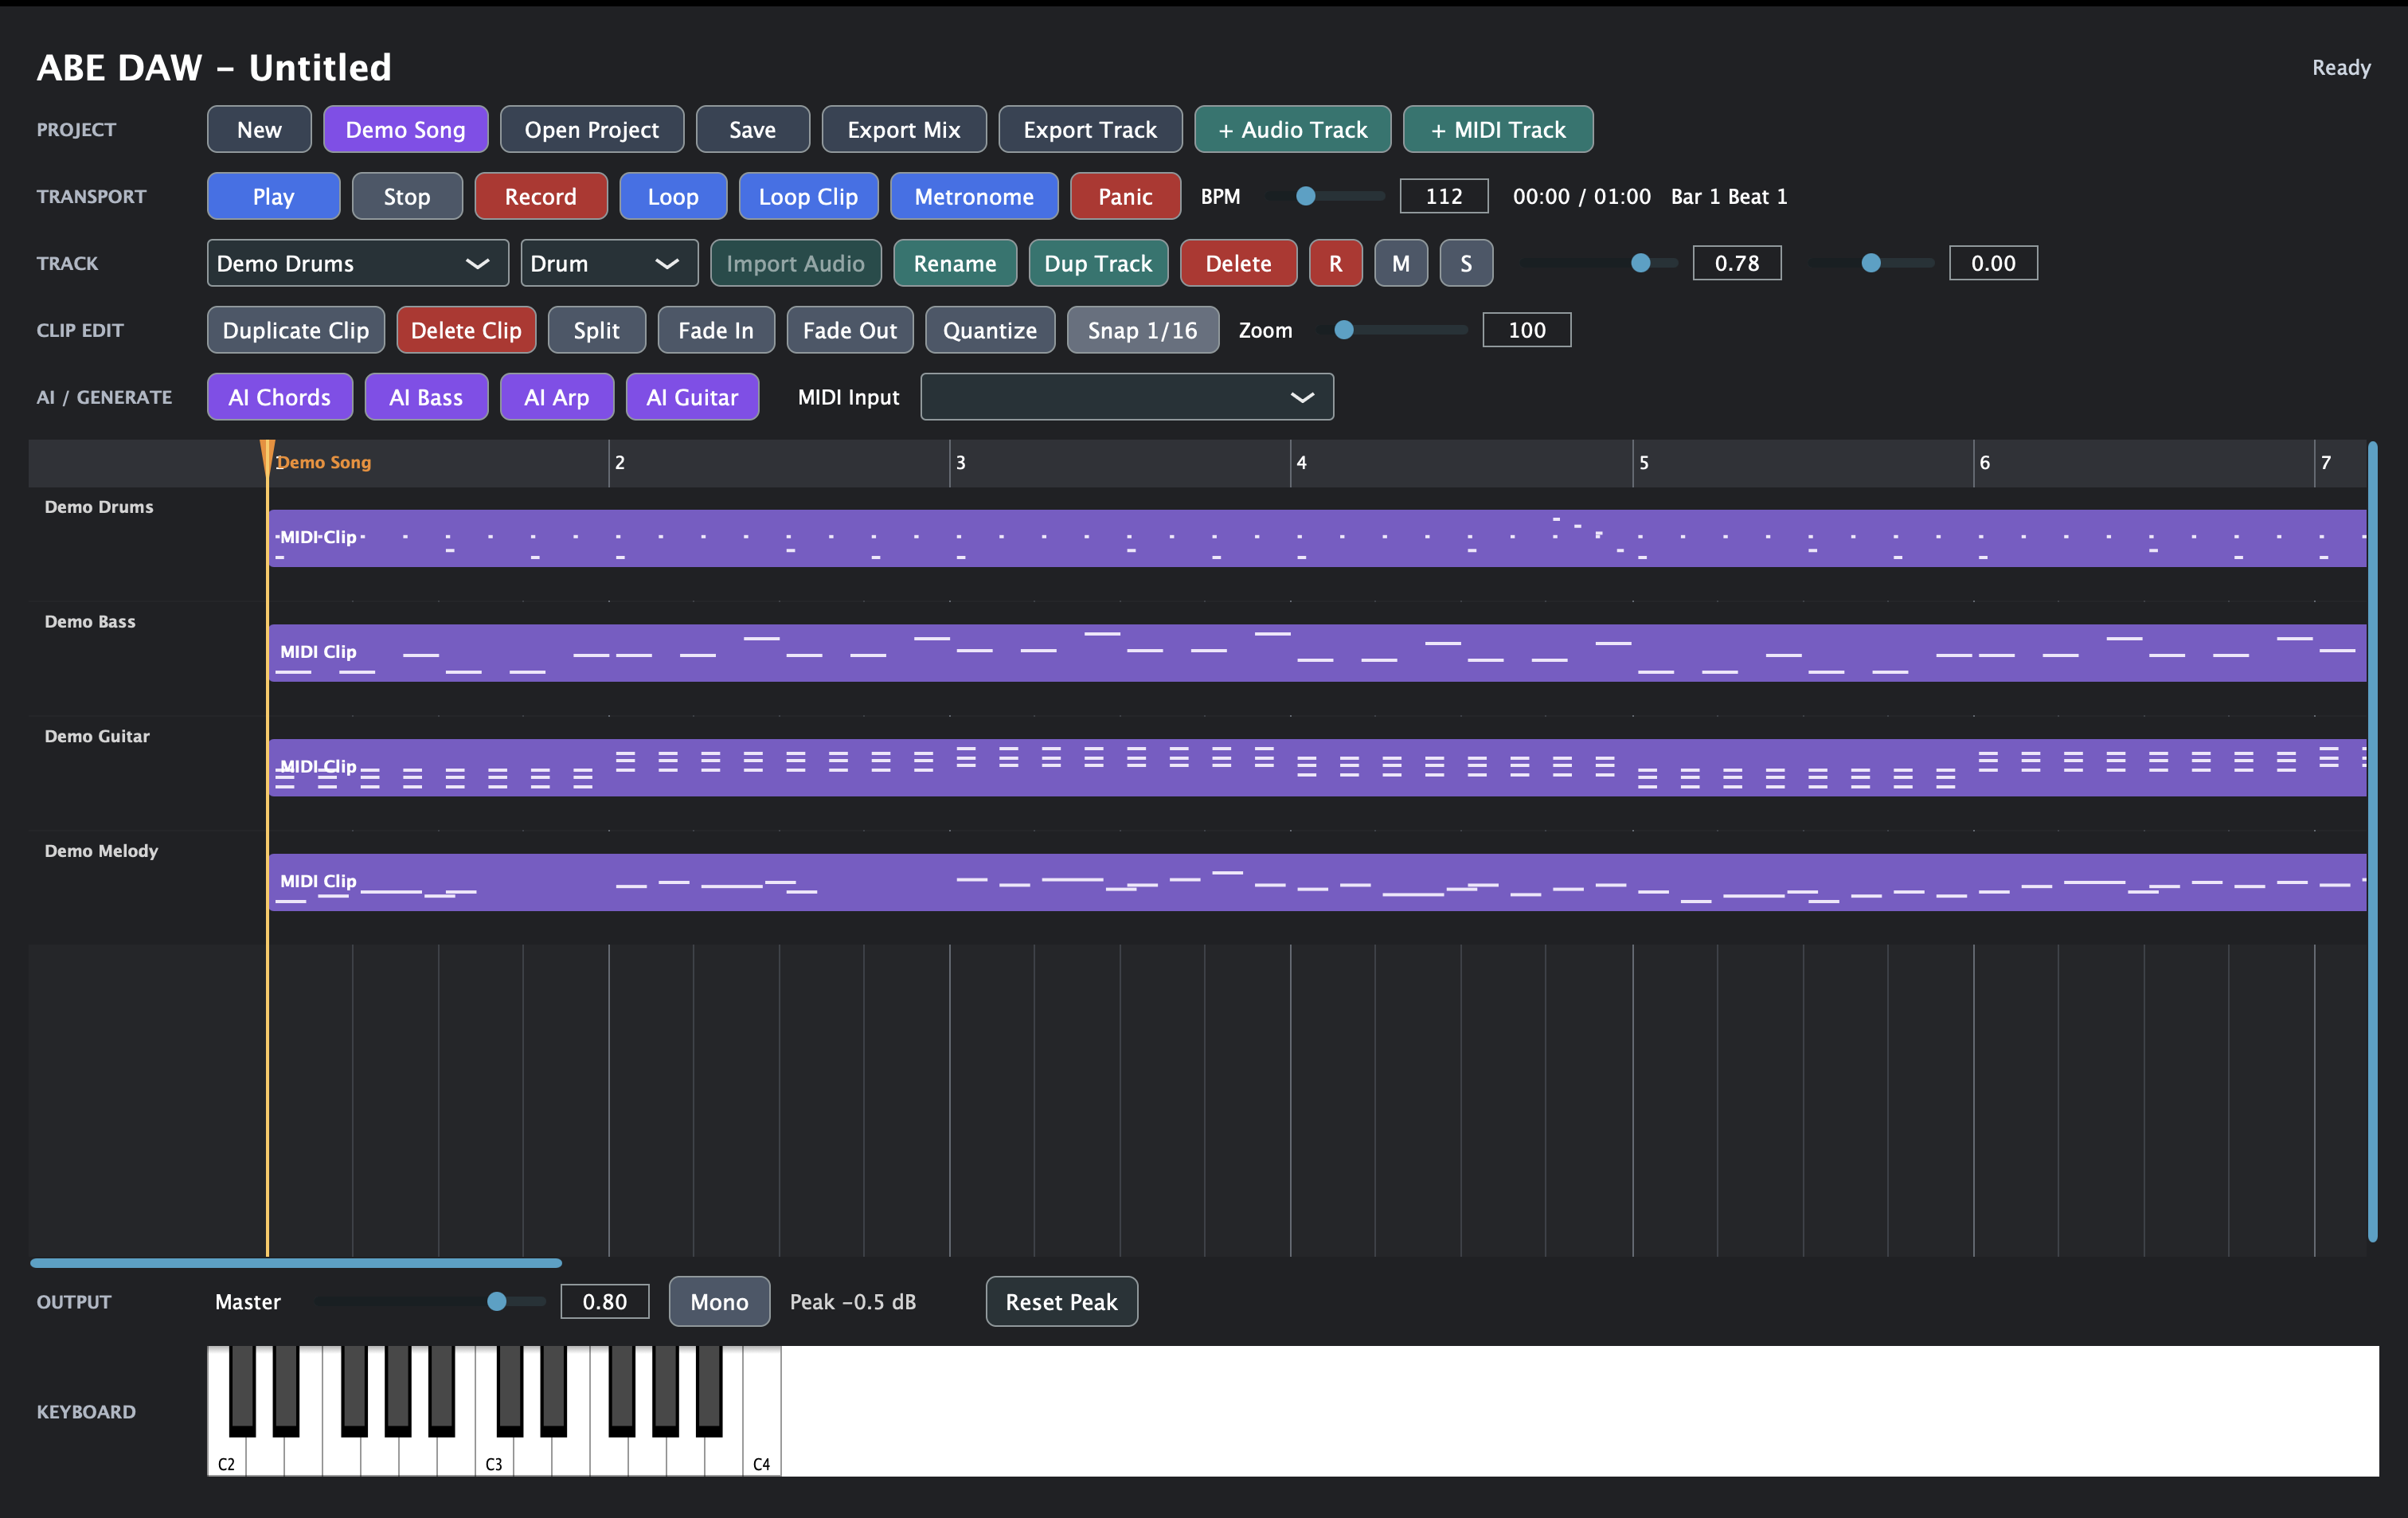
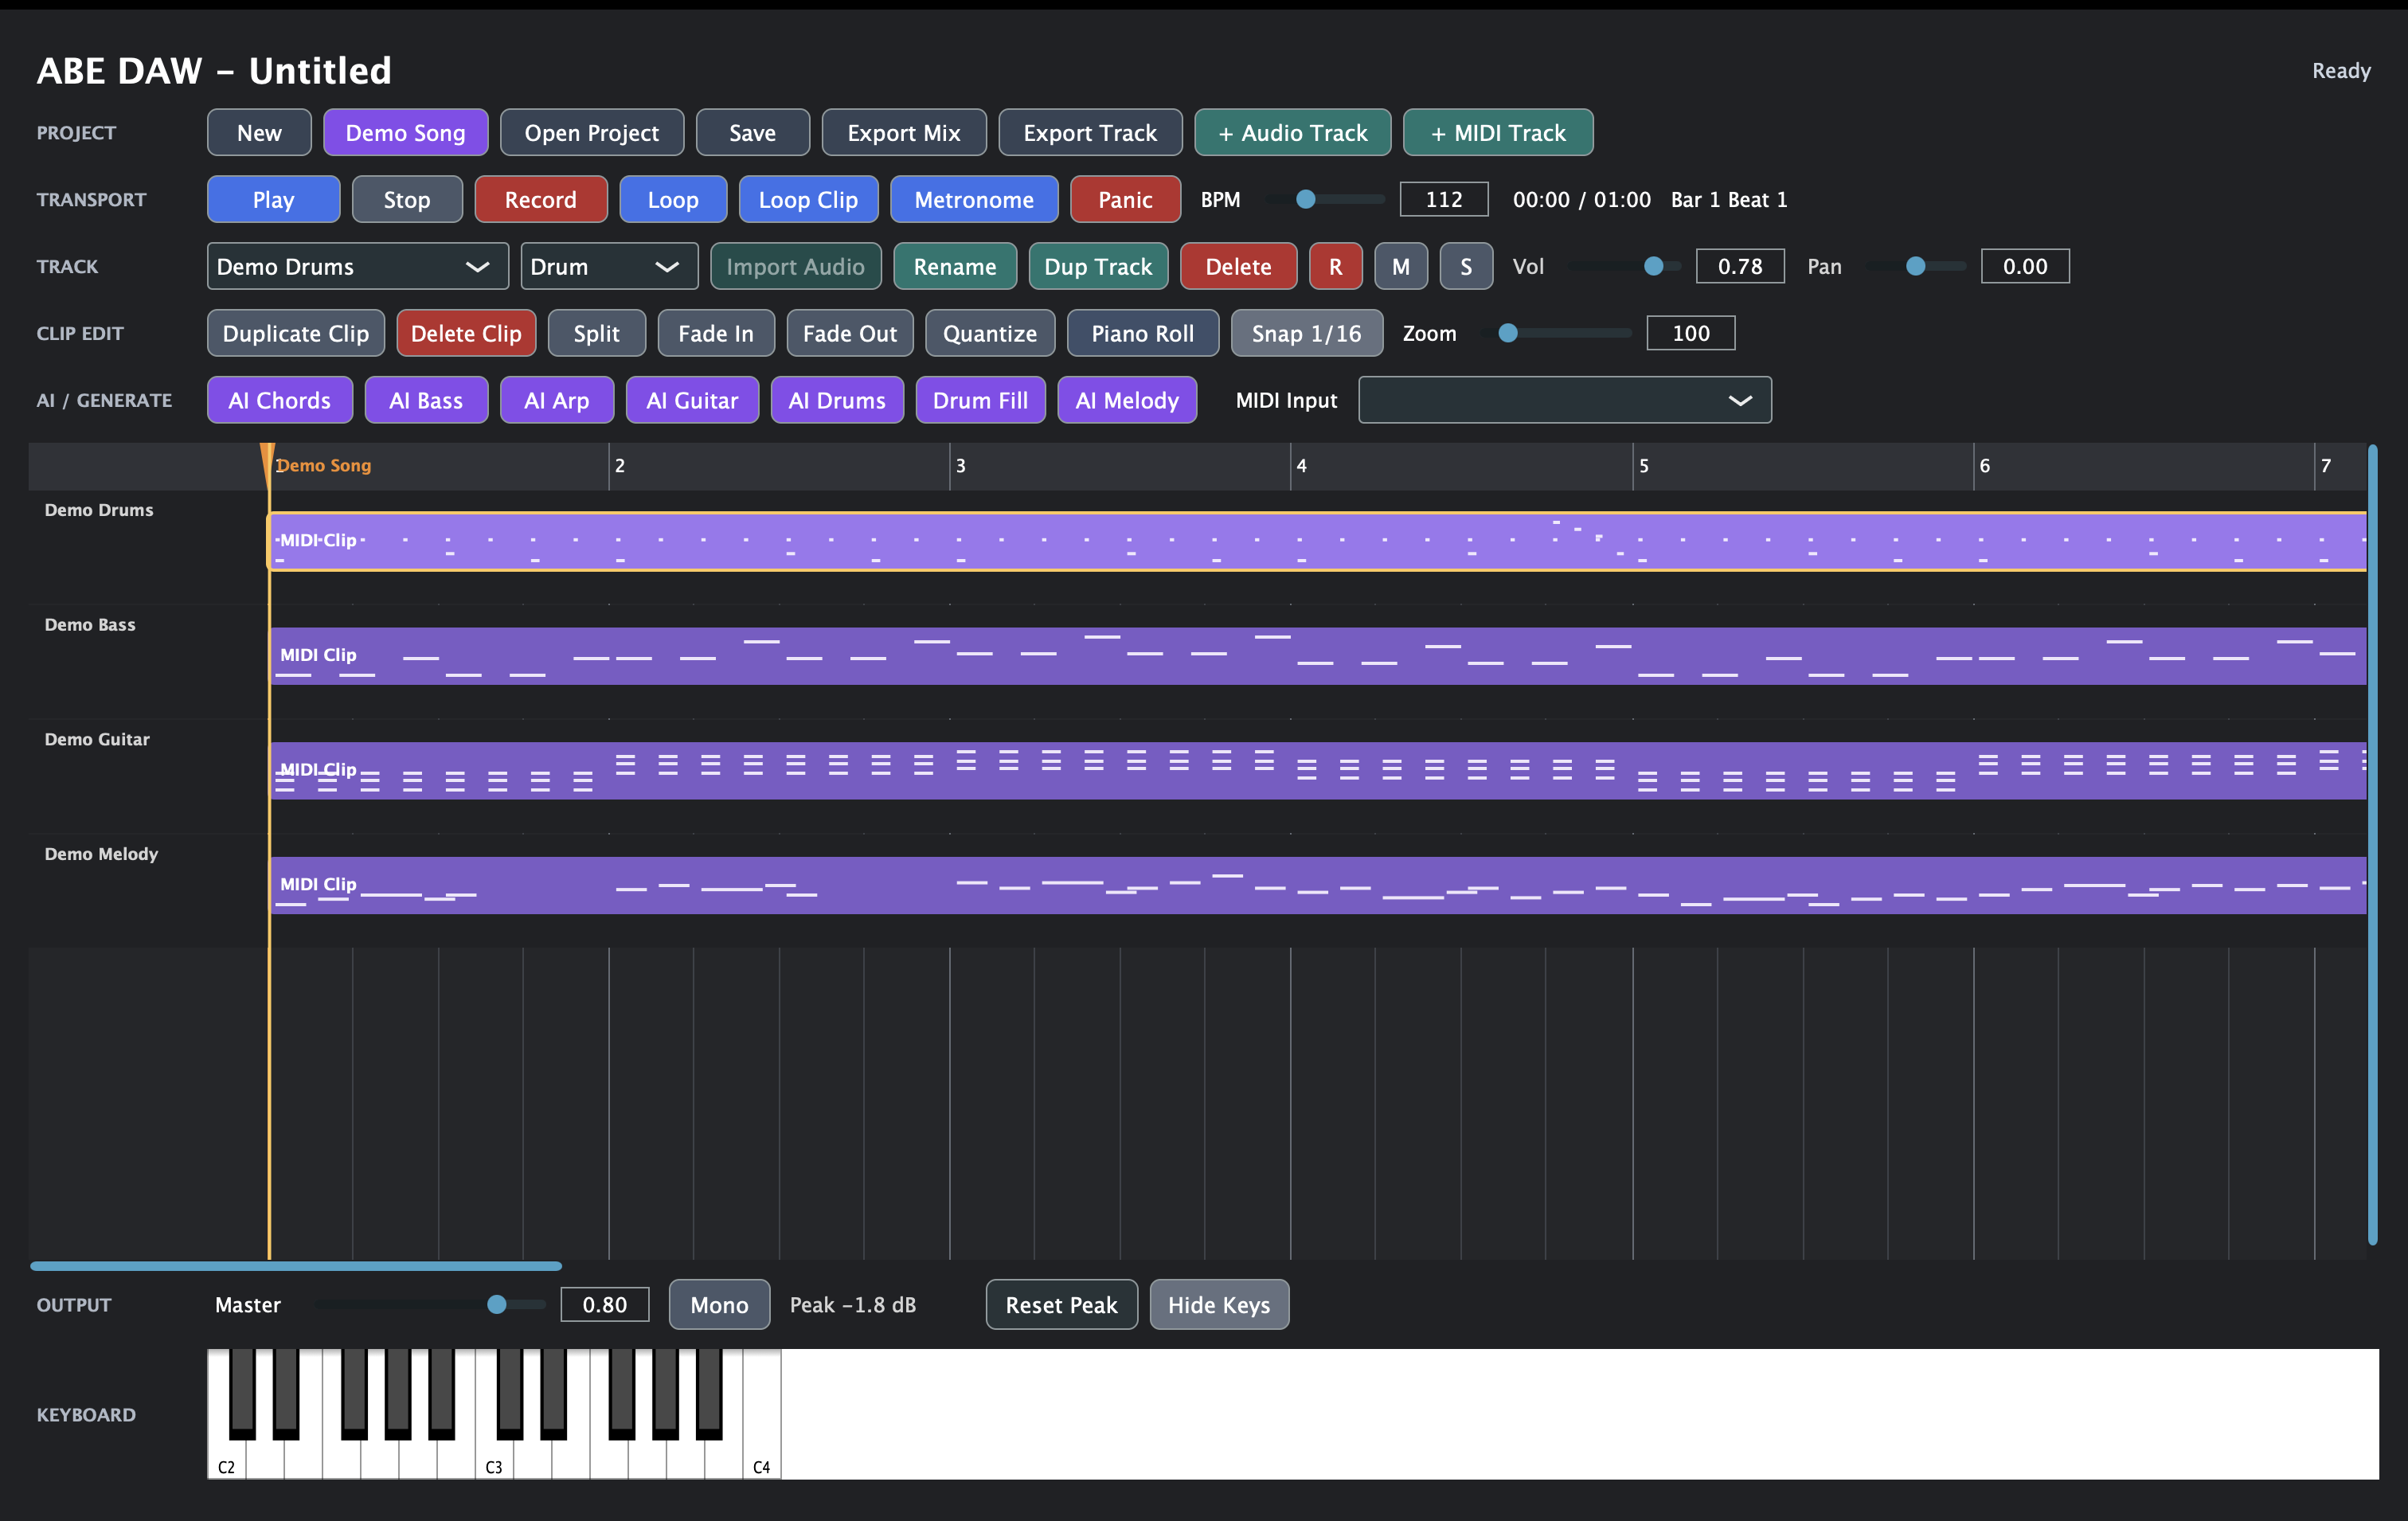
feat:構成整理

diff --git a/Source/MainComponent.cpp b/Source/MainComponent.cpp
@@ -90,6 +90,16 @@ MainComponent::MainComponent()
     zoomLabel.setColour(juce::Label::textColourId, juce::Colours::white);
     addAndMakeVisible(zoomLabel);
 
+    trackVolumeLabel.setText("Vol", juce::dontSendNotification);
+    trackVolumeLabel.setColour(juce::Label::textColourId, juce::Colours::lightgrey);
+    trackVolumeLabel.setJustificationType(juce::Justification::centredRight);
+    addAndMakeVisible(trackVolumeLabel);
+
+    trackPanLabel.setText("Pan", juce::dontSendNotification);
+    trackPanLabel.setColour(juce::Label::textColourId, juce::Colours::lightgrey);
+    trackPanLabel.setJustificationType(juce::Justification::centredRight);
+    addAndMakeVisible(trackPanLabel);
+
     newProjectButton.setButtonText("New");
     newProjectButton.onClick = [this] { newProject(); };
     addAndMakeVisible(newProjectButton);
@@ -208,6 +218,10 @@ MainComponent::MainComponent()
     quantizeMidiButton.onClick = [this] { quantizeSelectedMidiClip(); };
     addAndMakeVisible(quantizeMidiButton);
 
+    openPianoRollButton.setButtonText("Piano Roll");
+    openPianoRollButton.onClick = [this] { openSelectedMidiClipPianoRoll(); };
+    addAndMakeVisible(openPianoRollButton);
+
     snapButton.setClickingTogglesState(true);
     snapButton.setToggleState(true, juce::dontSendNotification);
     snapButton.onClick = [this]
@@ -233,6 +247,18 @@ MainComponent::MainComponent()
     aiGuitarButton.setButtonText("AI Guitar");
     aiGuitarButton.onClick = [this] { generateAiGuitarForSelectedTrack(); };
     addAndMakeVisible(aiGuitarButton);
+
+    aiDrumsButton.setButtonText("AI Drums");
+    aiDrumsButton.onClick = [this] { generateAiDrumsForSelectedTrack(); };
+    addAndMakeVisible(aiDrumsButton);
+
+    aiDrumFillButton.setButtonText("Drum Fill");
+    aiDrumFillButton.onClick = [this] { generateAiDrumFillForSelectedTrack(); };
+    addAndMakeVisible(aiDrumFillButton);
+
+    aiMelodyButton.setButtonText("AI Melody");
+    aiMelodyButton.onClick = [this] { generateAiMelodyForSelectedTrack(); };
+    addAndMakeVisible(aiMelodyButton);
 
     playPauseButton.setButtonText("Play");
     playPauseButton.onClick = [this]
@@ -372,6 +398,20 @@ MainComponent::MainComponent()
     };
     addAndMakeVisible(monoButton);
 
+    keyboardToggleButton.setButtonText("Hide Keys");
+    keyboardToggleButton.setClickingTogglesState(true);
+    keyboardToggleButton.setToggleState(true, juce::dontSendNotification);
+    keyboardToggleButton.onClick = [this]
+    {
+        keyboardVisible = keyboardToggleButton.getToggleState();
+        keyboardToggleButton.setButtonText(keyboardVisible ? "Hide Keys" : "Show Keys");
+        keyboardComponent.setVisible(keyboardVisible);
+        keyboardSectionLabel.setVisible(keyboardVisible);
+        resized();
+        repaint();
+    };
+    addAndMakeVisible(keyboardToggleButton);
+
     trackVolumeSlider.setSliderStyle(juce::Slider::LinearHorizontal);
     trackVolumeSlider.setTextBoxStyle(juce::Slider::TextBoxRight, false, 56, 22);
     trackVolumeSlider.setRange(0.0, 1.0, 0.01);
@@ -425,11 +465,15 @@ MainComponent::MainComponent()
     configureButton(fadeInButton, "Apply a one-second fade in to the selected audio clip.", editColour);
     configureButton(fadeOutButton, "Apply a one-second fade out to the selected audio clip.", editColour);
     configureButton(quantizeMidiButton, "Quantize the selected MIDI clip to the current grid.", editColour);
+    configureButton(openPianoRollButton, "Open the selected MIDI clip in the Piano Roll editor.", editColour);
     configureButton(snapButton, "Toggle timeline snapping and show the current grid size.", editColour);
     configureButton(aiChordsButton, "Generate a MIDI chord progression on the selected MIDI track.", aiColour);
     configureButton(aiBassButton, "Generate a bassline on the selected MIDI track.", aiColour);
     configureButton(aiArpButton, "Generate an arpeggio on the selected MIDI track.", aiColour);
     configureButton(aiGuitarButton, "Generate a guitar strum part on the selected MIDI track.", aiColour);
+    configureButton(aiDrumsButton, "Generate a drum groove on the selected MIDI track.", aiColour);
+    configureButton(aiDrumFillButton, "Generate a short drum fill on the selected MIDI track.", aiColour);
+    configureButton(aiMelodyButton, "Generate a lead melody on the selected MIDI track.", aiColour);
     configureButton(playPauseButton, "Start playback or pause at the current position.", transportColour);
     configureButton(stopButton, "Stop playback and return to the start.", editColour);
     configureButton(recordButton, "Record into the armed Audio or MIDI track.", dangerColour);
@@ -441,6 +485,7 @@ MainComponent::MainComponent()
     configureButton(muteButton, "Mute the selected track.", editColour);
     configureButton(soloButton, "Solo the selected track.", editColour);
     configureButton(monoButton, "Monitor the master output in mono.", editColour);
+    configureButton(keyboardToggleButton, "Show or hide the on-screen keyboard to give the timeline more space.", editColour);
     trackSelector.setTooltip("Select the active track for editing and recording.");
     instrumentSelector.setTooltip("Choose the selected MIDI track sound.");
     midiInputSelector.setTooltip("Choose an external MIDI input device.");
@@ -640,9 +685,11 @@ void MainComponent::resized()
     place(trackBar, armButton, 34);
     place(trackBar, muteButton, 34);
     place(trackBar, soloButton, 34);
-    trackVolumeSlider.setBounds(trackBar.removeFromLeft(174).reduced(0, 4));
+    trackVolumeLabel.setBounds(trackBar.removeFromLeft(30));
+    trackVolumeSlider.setBounds(trackBar.removeFromLeft(146).reduced(0, 4));
     trackBar.removeFromLeft(7);
-    trackPanSlider.setBounds(trackBar.removeFromLeft(154).reduced(0, 4));
+    trackPanLabel.setBounds(trackBar.removeFromLeft(34));
+    trackPanSlider.setBounds(trackBar.removeFromLeft(138).reduced(0, 4));
 
     area.removeFromTop(rowGap);
     auto clipBar = takeRow(clipSectionLabel);
@@ -652,6 +699,7 @@ void MainComponent::resized()
     place(clipBar, fadeInButton, 74);
     place(clipBar, fadeOutButton, 80);
     place(clipBar, quantizeMidiButton, 82);
+    place(clipBar, openPianoRollButton, 96);
     place(clipBar, snapButton, 96);
     zoomLabel.setBounds(clipBar.removeFromLeft(44));
     zoomSlider.setBounds(clipBar.removeFromLeft(170).reduced(0, 4));
@@ -662,12 +710,15 @@ void MainComponent::resized()
     place(aiBar, aiBassButton, 78);
     place(aiBar, aiArpButton, 72);
     place(aiBar, aiGuitarButton, 84);
+    place(aiBar, aiDrumsButton, 84);
+    place(aiBar, aiDrumFillButton, 82);
+    place(aiBar, aiMelodyButton, 88);
     aiBar.removeFromLeft(12);
     midiInputLabel.setBounds(aiBar.removeFromLeft(82));
     midiInputSelector.setBounds(aiBar.removeFromLeft(260).reduced(0, 4));
 
     area.removeFromTop(8);
-    auto bottom = area.removeFromBottom(138);
+    auto bottom = area.removeFromBottom(keyboardVisible ? 138 : 44);
     timelineViewport.setBounds(area);
 
     auto outputBar = bottom.removeFromTop(40);
@@ -679,10 +730,17 @@ void MainComponent::resized()
     peakLabel.setBounds(outputBar.removeFromLeft(120));
     outputBar.removeFromLeft(8);
     place(outputBar, resetPeakButton, 96);
+    place(outputBar, keyboardToggleButton, 88);
 
-    auto keyboardArea = bottom;
-    keyboardSectionLabel.setBounds(keyboardArea.removeFromLeft(labelWidth));
-    keyboardComponent.setBounds(keyboardArea.reduced(0, 8));
+    keyboardSectionLabel.setVisible(keyboardVisible);
+    keyboardComponent.setVisible(keyboardVisible);
+
+    if (keyboardVisible)
+    {
+        auto keyboardArea = bottom;
+        keyboardSectionLabel.setBounds(keyboardArea.removeFromLeft(labelWidth));
+        keyboardComponent.setBounds(keyboardArea.reduced(0, 8));
+    }
     updateTimelineSize();
 }
 
@@ -2204,6 +2262,20 @@ void MainComponent::setSelectedMidiTrackInstrument(MidiInstrument instrument)
     audioEngine.setMidiTrackInstrument(selected.id, instrument);
     keyboardComponent.setMidiChannel(midiInstrumentToChannel(instrument));
     timelineComponent.repaint();
+}
+
+void MainComponent::openSelectedMidiClipPianoRoll()
+{
+    const auto selectedMidiClip = timelineComponent.getSelectedMidiClip();
+
+    if (! selectedMidiClip.has_value())
+    {
+        showErrorMessage("No MIDI clip selected",
+                         "Select a MIDI clip on the timeline before opening Piano Roll.");
+        return;
+    }
+
+    openPianoRollForMidiClip(selectedMidiClip->first, selectedMidiClip->second);
 }
 
 void MainComponent::openPianoRollForMidiClip(const TrackId& trackId, const juce::Uuid& clipId)

diff --git a/Source/MainComponent.h b/Source/MainComponent.h
@@ -74,6 +74,7 @@ private:
     void soloOnlySelectedTrack();
     void resetSelectedTrackMix();
     void setSelectedMidiTrackInstrument(MidiInstrument instrument);
+    void openSelectedMidiClipPianoRoll();
     void openPianoRollForMidiClip(const TrackId& trackId, const juce::Uuid& clipId);
     void moveSelectedTrack(int direction);
     void selectAdjacentTrack(int direction);
@@ -181,6 +182,8 @@ private:
     juce::Label midiInputLabel;
     juce::Label trackLabel;
     juce::Label zoomLabel;
+    juce::Label trackVolumeLabel;
+    juce::Label trackPanLabel;
     juce::TextButton newProjectButton;
     juce::TextButton demoSongButton;
     juce::TextButton openProjectButton;
@@ -204,6 +207,10 @@ private:
     juce::TextButton aiBassButton;
     juce::TextButton aiArpButton;
     juce::TextButton aiGuitarButton;
+    juce::TextButton aiDrumsButton;
+    juce::TextButton aiDrumFillButton;
+    juce::TextButton aiMelodyButton;
+    juce::TextButton openPianoRollButton;
     juce::TextButton playPauseButton;
     juce::TextButton stopButton;
     juce::TextButton recordButton;
@@ -218,6 +225,7 @@ private:
     juce::Slider zoomSlider;
     juce::Slider masterVolumeSlider;
     juce::TextButton monoButton;
+    juce::TextButton keyboardToggleButton;
     juce::Slider trackVolumeSlider;
     juce::Slider trackPanSlider;
     juce::ComboBox trackSelector;
@@ -231,6 +239,7 @@ private:
     std::vector<double> tapTempoTimes;
     std::optional<ClipClipboard> clipClipboard;
     int snapGridIndex = 2;
+    bool keyboardVisible = true;
 
     JUCE_DECLARE_NON_COPYABLE_WITH_LEAK_DETECTOR(MainComponent)
 };

diff --git a/README.md b/README.md
@@ -60,12 +60,14 @@ ABE DAWは、C++20、JUCE、CMakeで開発しているmacOS向けのネイティ
   - Guitar
   - Drum
 - 画面鍵盤によるMIDI発音
+- 画面鍵盤の表示 / 非表示切替
 - PCキーボードによるMIDI発音
 - 外部MIDI入力デバイス選択
 - MIDI録音の基礎
 - MidiClipのノートプレビュー
 - MidiClipの選択 / 移動 / MIDIトラック間移動
 - MidiClipの右端トリム
+- `Piano Roll`ボタンまたはダブルクリックでMidiClip編集画面を開く
 - MidiClipのSplit
 - MidiClipの複製 / 削除
 - MidiClipのコピー / ペースト
@@ -88,7 +90,7 @@ ABE DAWは、C++20、JUCE、CMakeで開発しているmacOS向けのネイティ
 
 ### Piano Roll
 
-- MidiClipダブルクリックでPiano Rollを開く
+- MidiClip選択後の`Piano Roll`ボタン、またはMidiClipダブルクリックでPiano Rollを開く
 - ノート追加
 - ノート削除
 - ノート移動
@@ -150,12 +152,12 @@ ABE DAWの画面は上から順に機能別に分かれています。
 | --- | --- |
 | `PROJECT` | New、Demo Song、Open、Save、Export、トラック追加 |
 | `TRANSPORT` | Play、Stop、Record、Loop、BPM、Metronome、現在位置 |
-| `TRACK` | 選択トラック、Instrument、Import Audio、R/M/S、Volume、Pan |
-| `CLIP EDIT` | Duplicate、Delete、Split、Fade、Quantize、Snap、Zoom |
-| `AI / GENERATE` | AI MIDI生成、MIDI入力デバイス |
+| `TRACK` | 選択トラック、Instrument、Import Audio、R/M/S、Vol、Pan |
+| `CLIP EDIT` | Duplicate、Delete、Split、Fade、Quantize、Piano Roll、Snap、Zoom |
+| `AI / GENERATE` | Chords / Bass / Arp / Guitar / Drums / Fill / Melody生成、MIDI入力デバイス |
 | `Timeline` | Audio/MIDIクリップ編集、ドラッグ&ドロップ、シーク |
-| `OUTPUT` | Master、Mono、Peak、Reset Peak |
-| `KEYBOARD` | 画面鍵盤 |
+| `OUTPUT` | Master、Mono、Peak、Reset Peak、鍵盤表示切替 |
+| `KEYBOARD` | 画面鍵盤。`Hide Keys`で非表示にするとタイムラインを広く使えます |
 
 ボタンにマウスを乗せると、各機能の説明ツールチップが表示されます。
 
@@ -185,7 +187,7 @@ ABE DAWの画面は上から順に機能別に分かれています。
 
 ### 4. Piano RollでMIDIを編集する
 
-1. MidiClipをダブルクリックする
+1. MidiClipを選択して`Piano Roll`を押す、またはMidiClipをダブルクリックする
 2. 空いている場所をクリックしてノートを追加する
 3. ノートをドラッグして移動する
 4. ノート右端をドラッグして長さを変更する
@@ -196,7 +198,7 @@ ABE DAWの画面は上から順に機能別に分かれています。
 
 1. `+ MIDI Track`を押す
 2. MIDIトラックを選択する
-3. `AI Chords`、`AI Bass`、`AI Arp`、`AI Guitar`などを押す
+3. `AI Chords`、`AI Bass`、`AI Arp`、`AI Guitar`、`AI Drums`、`Drum Fill`、`AI Melody`などを押す
 4. 必要ならPiano Rollで編集する
 
 ### 6. 書き出す